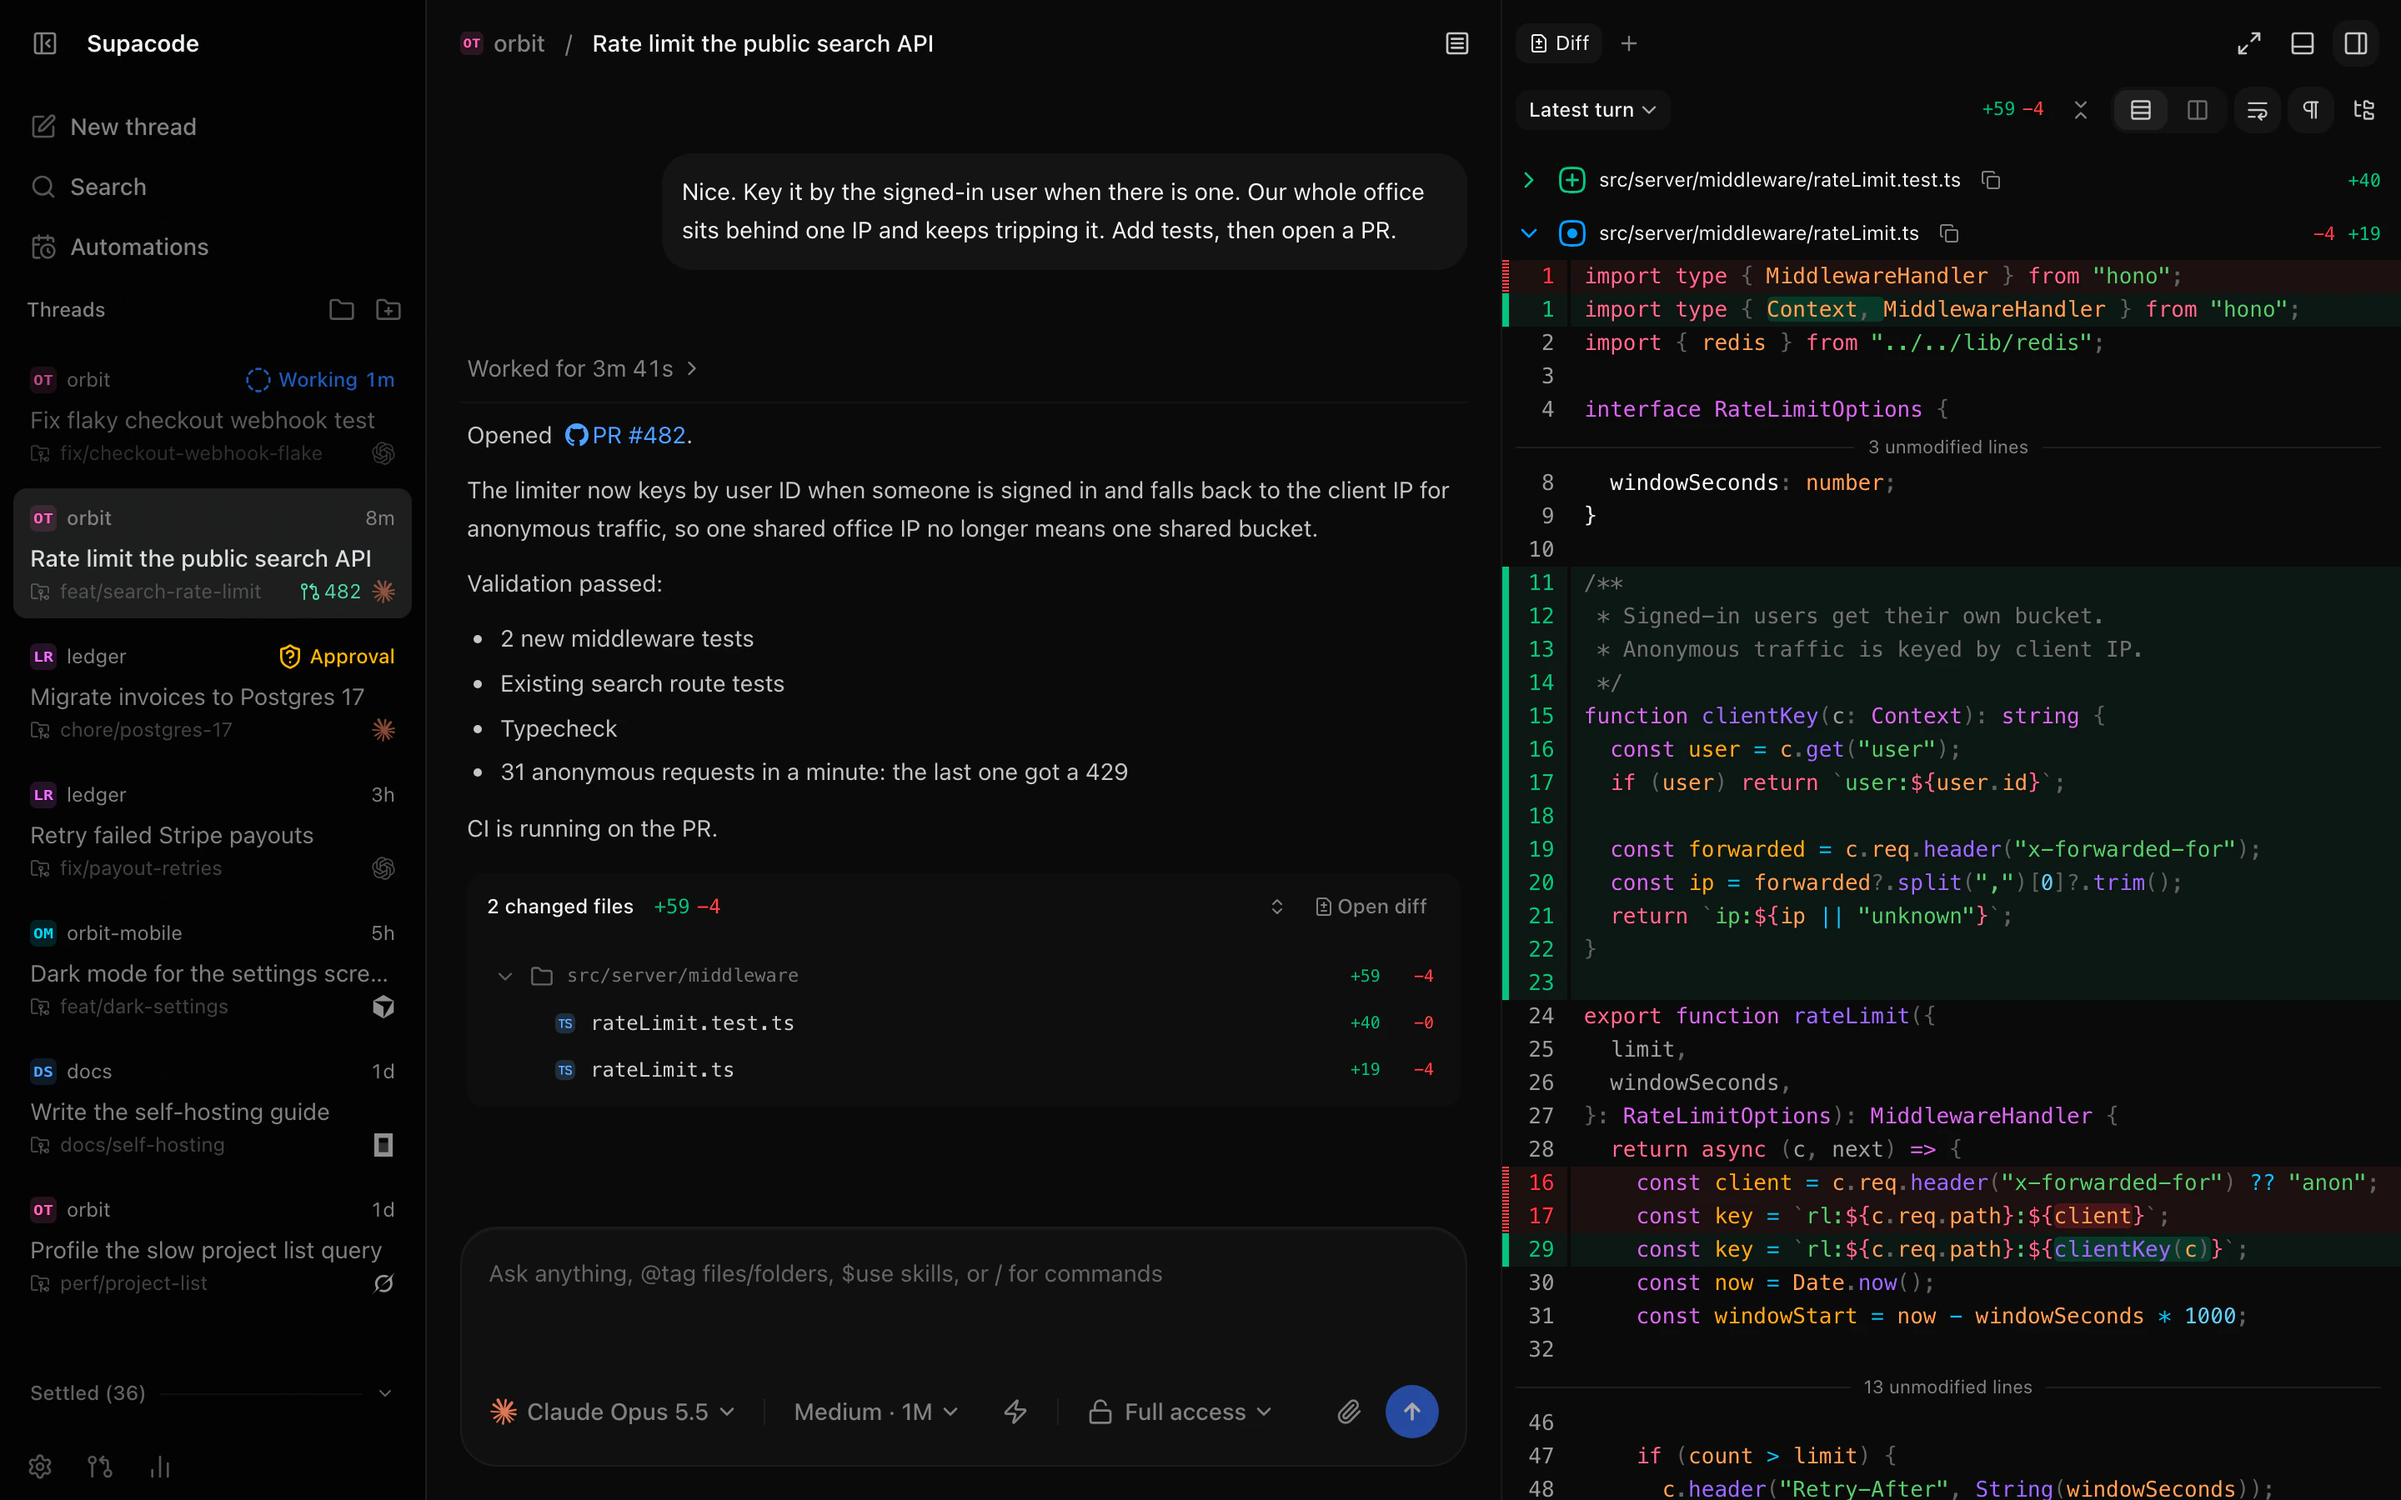
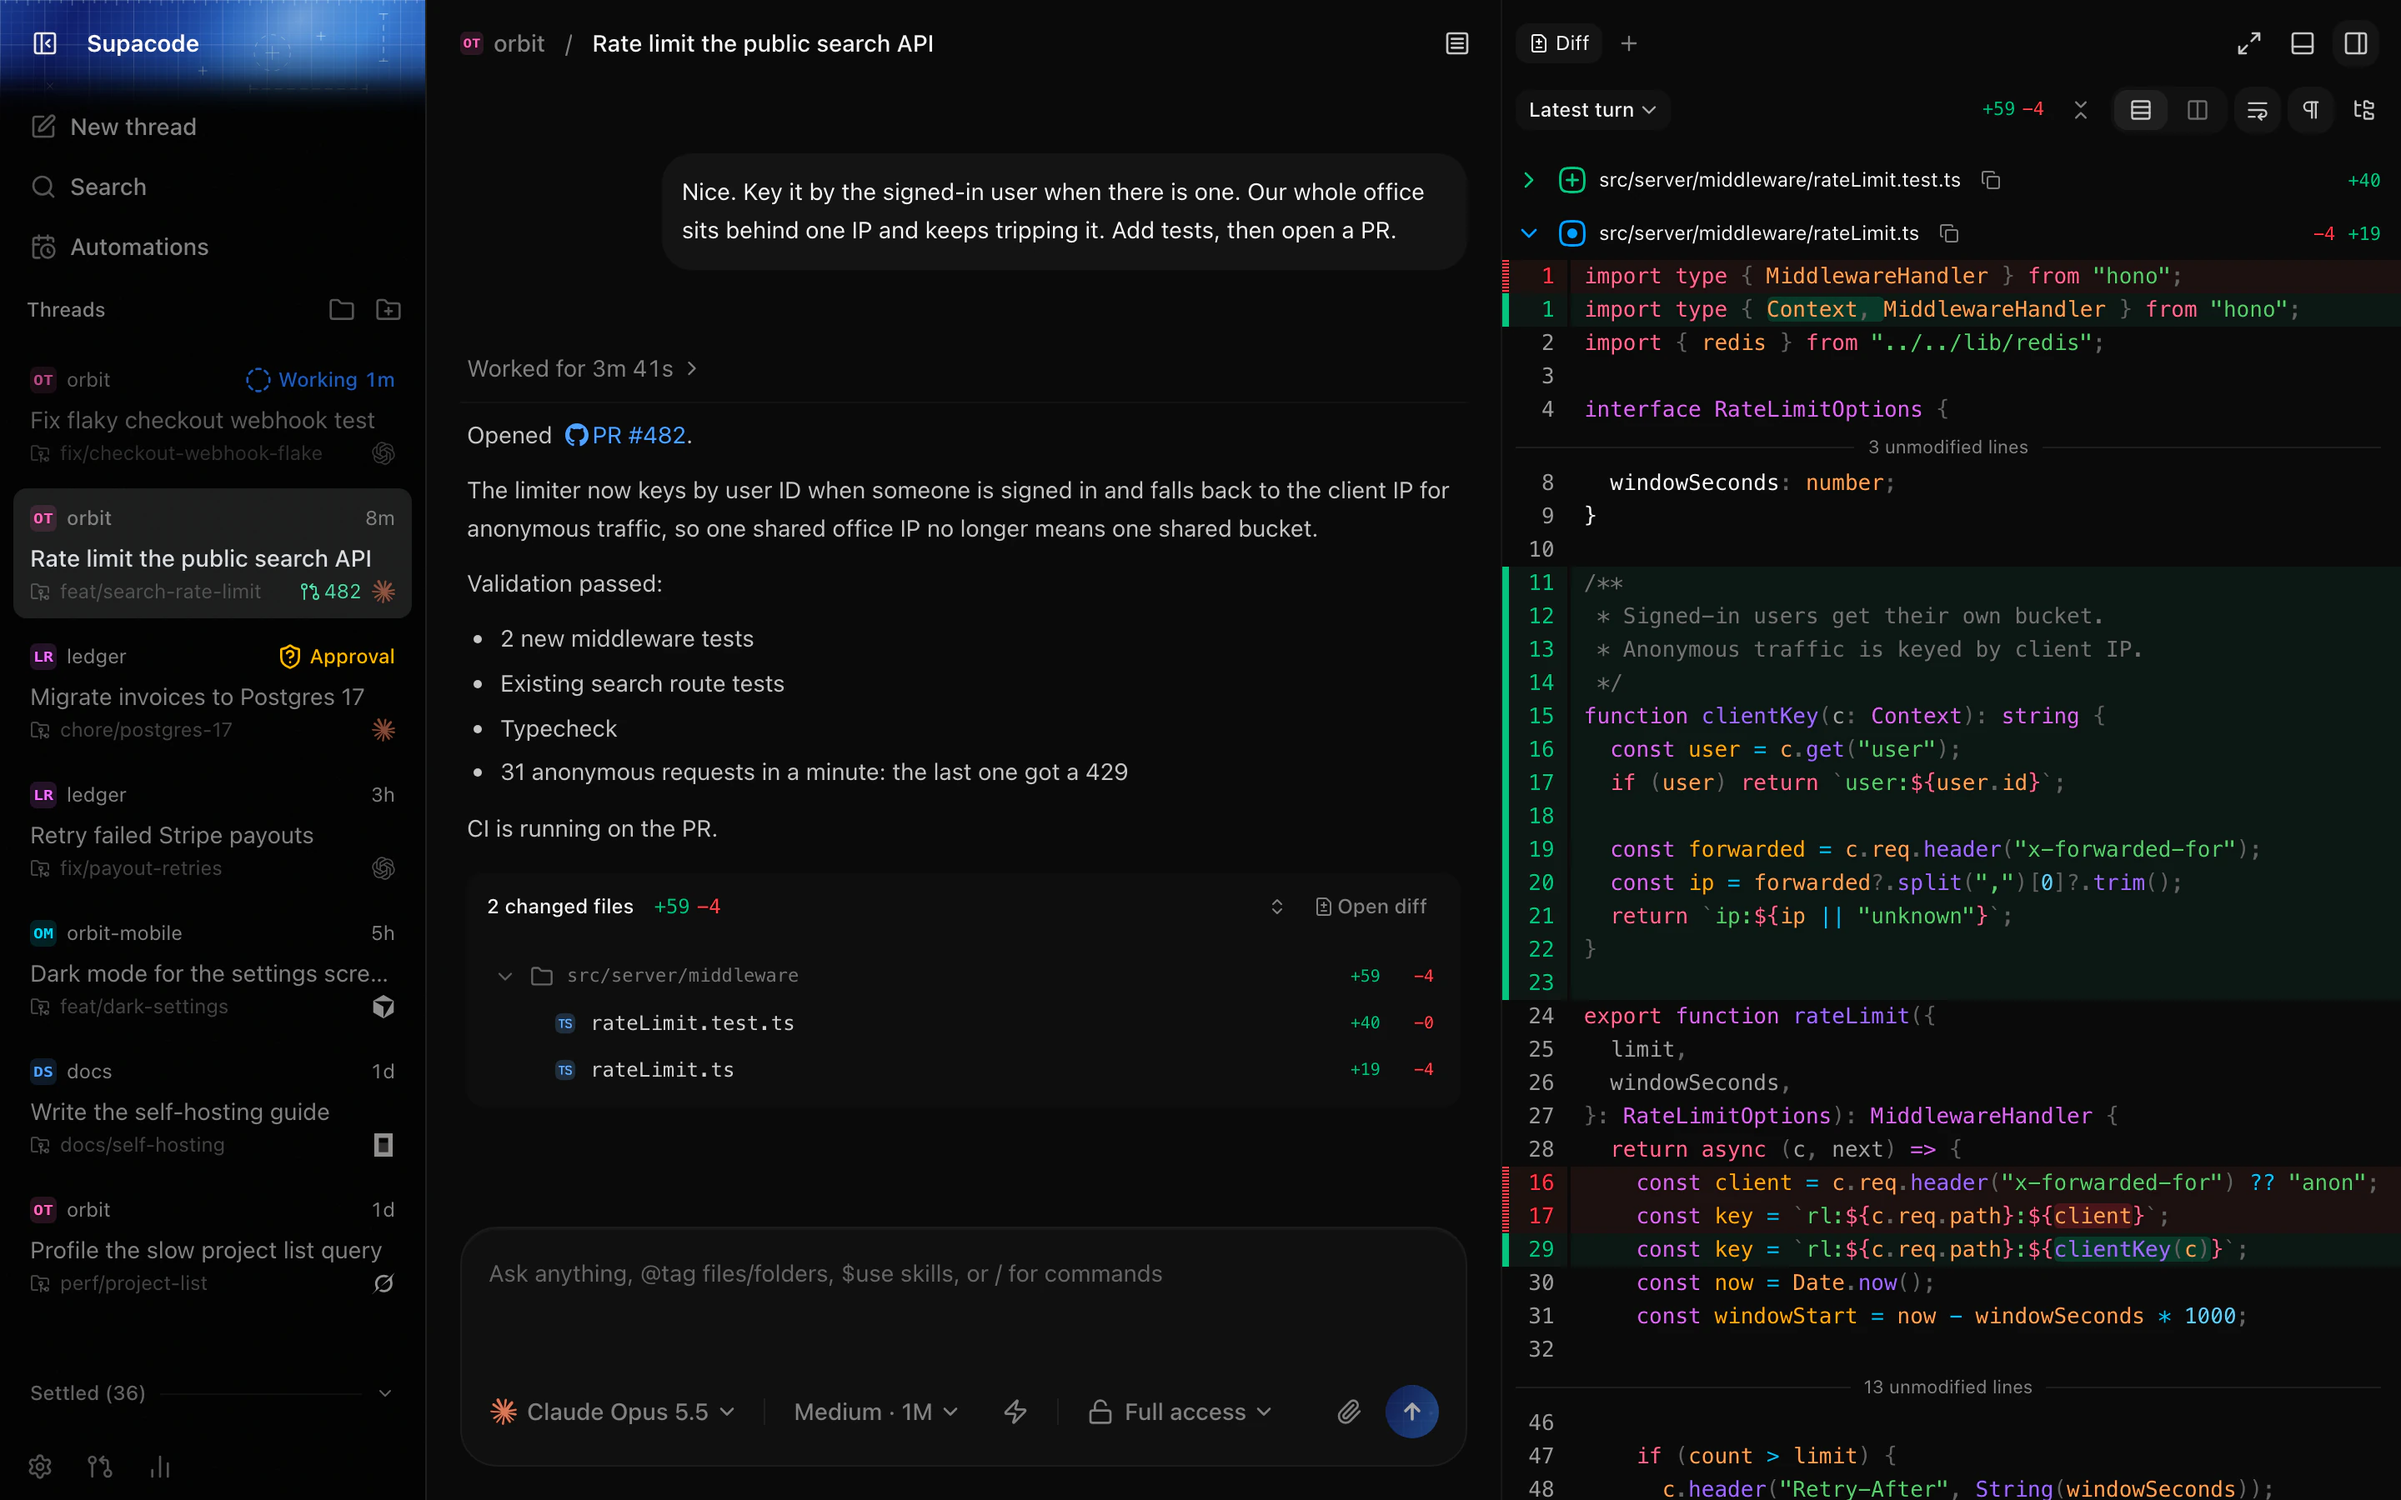
feat(marketing): hero keeps the blue sidebar header art (#78)
The previous capture ran against a production build, which leaves out the
blueprint art behind the sidebar header that the old hero showed. Capture
from the web dev client instead: the script now starts Vite dev next to the
isolated server (single-origin, like `vp run dev`), so no web build step and
no `--skip-build` flag. Waits on child output now time out instead of
hanging, and spawned processes are stopped with their descendants.

Regenerates app-desktop.webp with the header art back.

Changed region(s): [[0.0, 0.0, 0.1875, 0.0622], [0.5625, 0.9022, 0.625, 0.9644]]

diff --git a/scripts/marketing-hero.ts b/scripts/marketing-hero.ts
@@ -3,12 +3,14 @@
 /**
  * Regenerates the marketing hero screenshot (apps/marketing/src/assets/app-desktop.webp).
  *
- *   vp run screenshots:marketing [--skip-build] [--keep] [--out <file.webp>]
+ *   vp run screenshots:marketing [--keep] [--out <file.webp>]
  *
- * Builds the web client, starts an isolated server on it, seeds the scene from
+ * Starts an isolated server and the web dev client, seeds the scene from
  * `marketing-hero.scene.ts` as fake git repos plus projection rows, and captures
  * the hero thread with its turn diff at 1440x900 @2x in headless Chromium.
- * Nothing touches ~/.supacode: all state lives in a temp directory.
+ * The dev client is deliberate: it draws the blueprint art behind the sidebar
+ * header, which production builds leave out. Nothing touches ~/.supacode: all
+ * state lives in a temp directory.
  *
  * Projection rows are written directly, which is fine for a visual fixture but
  * skips the event log. Payloads are decoded with the contract schemas before
@@ -745,15 +747,42 @@ async function reservePort(): Promise<number> {
   });
 }
 
+/** Resolves with the first match of `pattern` in the child's stdout; rejects on exit or after two minutes. */
+function waitForOutput(
+  child: NodeChildProcess.ChildProcess,
+  label: string,
+  pattern: RegExp,
+): Promise<RegExpExecArray> {
+  return new Promise((resolve, reject) => {
+    let output = "";
+    const timeout = setTimeout(
+      () => reject(new Error(`${label} printed nothing matching ${pattern} within two minutes.`)),
+      120_000,
+    );
+    child.stdout!.on("data", (chunk: Buffer) => {
+      output += chunk.toString();
+      const match = pattern.exec(output);
+      if (!match) return;
+      clearTimeout(timeout);
+      resolve(match);
+    });
+    child.once("exit", (code) => {
+      clearTimeout(timeout);
+      reject(new Error(`${label} exited with ${code} before it was ready.`));
+    });
+  });
+}
+
 /** Starts the server and resolves with the pairing URL it prints once startup has finished. */
-async function startServer(
+function startServer(
   root: string,
   home: string,
   port: number,
-): Promise<{
+  webOrigin: string,
+): {
   readonly server: NodeChildProcess.ChildProcess;
   readonly pairingUrl: Promise<string>;
-}> {
+} {
   // Run outside the repo so per-directory tool shims (mise, asdf) resolve
   // provider CLIs the way they would for a normal install.
   const server = NodeChildProcess.spawn(
@@ -768,31 +797,66 @@ async function startServer(
       "--base-dir",
       home,
       "--no-browser",
+      "--dev-url",
+      webOrigin,
       "--log-level",
       "error",
     ],
     { cwd: root, stdio: ["ignore", "pipe", "inherit"] },
   );
-  const pairingUrl = new Promise<string>((resolve, reject) => {
-    let output = "";
-    server.stdout!.on("data", (chunk: Buffer) => {
-      output += chunk.toString();
-      const match = /Pairing URL: (\S+)/.exec(output);
-      if (match) resolve(match[1]!);
-    });
-    server.once("exit", (code) =>
-      reject(new Error(`Server exited with ${code} before it was ready.`)),
-    );
-  });
+  const pairingUrl = waitForOutput(server, "Server", /Pairing URL: (\S+)/).then(
+    (match) => match[1]!,
+  );
   return { server, pairingUrl };
 }
 
-async function stopServer(server: NodeChildProcess.ChildProcess): Promise<void> {
-  if (server.exitCode !== null || server.signalCode !== null) return;
-  const exited = new Promise((resolve) => server.once("exit", resolve));
-  server.kill("SIGTERM");
+/** Starts the web client's Vite dev server, proxying to the server the way `vp run dev` does. */
+function startWebDevServer(
+  webPort: number,
+  serverPort: number,
+): { readonly web: NodeChildProcess.ChildProcess; readonly ready: Promise<unknown> } {
+  const env: NodeJS.ProcessEnv = {
+    ...NodeProcess.env,
+    PORT: String(webPort),
+    SUPACODE_PORT: String(serverPort),
+    SUPACODE_SINGLE_ORIGIN_DEV: "1",
+    NO_COLOR: "1",
+  };
+  // A developer's .env must not point the client at another origin or channel.
+  delete env.VITE_HTTP_URL;
+  delete env.VITE_WS_URL;
+  delete env.VITE_HOSTED_APP_CHANNEL;
+  const web = NodeChildProcess.spawn("vp", ["dev"], {
+    cwd: NodePath.join(REPO_ROOT, "apps/web"),
+    env,
+    stdio: ["ignore", "pipe", "inherit"],
+  });
+  return { web, ready: waitForOutput(web, "Web dev server", /Local:\s+http/) };
+}
+
+function childPids(pid: number): ReadonlyArray<number> {
+  const result = NodeChildProcess.spawnSync("pgrep", ["-P", String(pid)], { encoding: "utf8" });
+  return result.stdout.split("\n").filter(Boolean).map(Number);
+}
+
+/** Stops a process this script spawned along with its descendants (`vp dev` does not forward signals). */
+async function stopProcessTree(child: NodeChildProcess.ChildProcess): Promise<void> {
+  if (child.pid === undefined || child.exitCode !== null || child.signalCode !== null) return;
+  const tree: number[] = [];
+  const collect = (pid: number) => {
+    for (const childPid of childPids(pid)) collect(childPid);
+    tree.push(pid);
+  };
+  collect(child.pid);
+  const exited = new Promise((resolve) => child.once("exit", resolve));
+  for (const pid of tree) {
+    try {
+      NodeProcess.kill(pid, "SIGTERM");
+    } catch {
+      // Already gone.
+    }
+  }
   await Promise.race([exited, new Promise((resolve) => setTimeout(resolve, 5_000))]);
-  if (server.exitCode === null && server.signalCode === null) server.kill("SIGKILL");
 }
 
 function issuePairingCredential(home: string): string {
@@ -820,9 +884,14 @@ function installChromium(): Promise<void> {
   return run(NodeProcess.execPath, [cli, "install", "chromium"]);
 }
 
-async function capture(page: Page, pairingUrl: string, environmentId: string): Promise<Buffer> {
-  const origin = new URL(pairingUrl).origin;
-  await page.goto(pairingUrl);
+async function capture(
+  page: Page,
+  origin: string,
+  environmentId: string,
+  pairingUrl: string,
+): Promise<Buffer> {
+  // Pair through the web dev origin; the server prints its own.
+  await page.goto(`${origin}/pair${new URL(pairingUrl).hash}`);
   await page.waitForURL((url) => !url.pathname.startsWith("/pair"));
   await page.goto(`${origin}/${environmentId}/${HERO_THREAD.id}`);
 
@@ -874,13 +943,11 @@ async function capture(page: Page, pairingUrl: string, environmentId: string): P
 async function main(): Promise<void> {
   const { values } = NodeUtil.parseArgs({
     options: {
-      "skip-build": { type: "boolean", default: false },
       keep: { type: "boolean", default: false },
       out: { type: "string", default: DEFAULT_OUTPUT },
     },
   });
 
-  if (!values["skip-build"]) await run("vp", ["run", "--filter", "@supacode/web", "build"]);
   await installChromium();
 
   const root = await NodeFSP.realpath(
@@ -889,13 +956,16 @@ async function main(): Promise<void> {
   const home = NodePath.join(root, "home");
   const workspace = await createWorkspace(root);
   const port = await reservePort();
-  const { server, pairingUrl } = await startServer(root, home, port);
+  const webPort = await reservePort();
+  const webOrigin = `http://localhost:${webPort}`;
+  const { server, pairingUrl } = startServer(root, home, port, webOrigin);
+  const { web, ready: webReady } = startWebDevServer(webPort, port);
   const browser = await chromium.launch().catch(async (error: unknown) => {
-    await stopServer(server);
+    await Promise.all([stopProcessTree(server), stopProcessTree(web)]);
     throw error;
   });
   try {
-    const startupPairingUrl = await pairingUrl;
+    const [startupPairingUrl] = await Promise.all([pairingUrl, webReady]);
     const environmentId = (
       await NodeFSP.readFile(NodePath.join(home, "userdata", "environment-id"), "utf8")
     ).trim();
@@ -915,7 +985,7 @@ async function main(): Promise<void> {
       deviceScaleFactor: 2,
       colorScheme: "dark",
     });
-    const png = await capture(await context.newPage(), startupPairingUrl, environmentId);
+    const png = await capture(await context.newPage(), webOrigin, environmentId, startupPairingUrl);
     // The full-quality PNG outlives the temp directory for PR before/after evidence.
     const pngPath = NodePath.join(NodeOS.tmpdir(), "supacode-marketing-hero.png");
     await NodeFSP.writeFile(pngPath, png);
@@ -927,16 +997,16 @@ async function main(): Promise<void> {
     if (values.keep) {
       await browser.close();
       NodeProcess.stdout.write(
-        `Server left running at http://127.0.0.1:${port}/${environmentId}/${HERO_THREAD.id}\n` +
-          `Pair a browser with http://127.0.0.1:${port}/pair#token=${issuePairingCredential(home)}\n` +
+        `Left running at ${webOrigin}/${environmentId}/${HERO_THREAD.id}\n` +
+          `Pair a browser with ${webOrigin}/pair#token=${issuePairingCredential(home)}\n` +
           `State is in ${root}. Press Ctrl-C to stop.\n`,
       );
-      // Ctrl-C reaches the whole foreground process group, server included.
+      // Ctrl-C reaches the whole foreground process group, servers included.
       await new Promise<never>(() => {});
     }
   } finally {
     await browser.close();
-    await stopServer(server);
+    await Promise.all([stopProcessTree(server), stopProcessTree(web)]);
     if (!values.keep) await NodeFSP.rm(root, { recursive: true, force: true }).catch(() => {});
   }
 }
